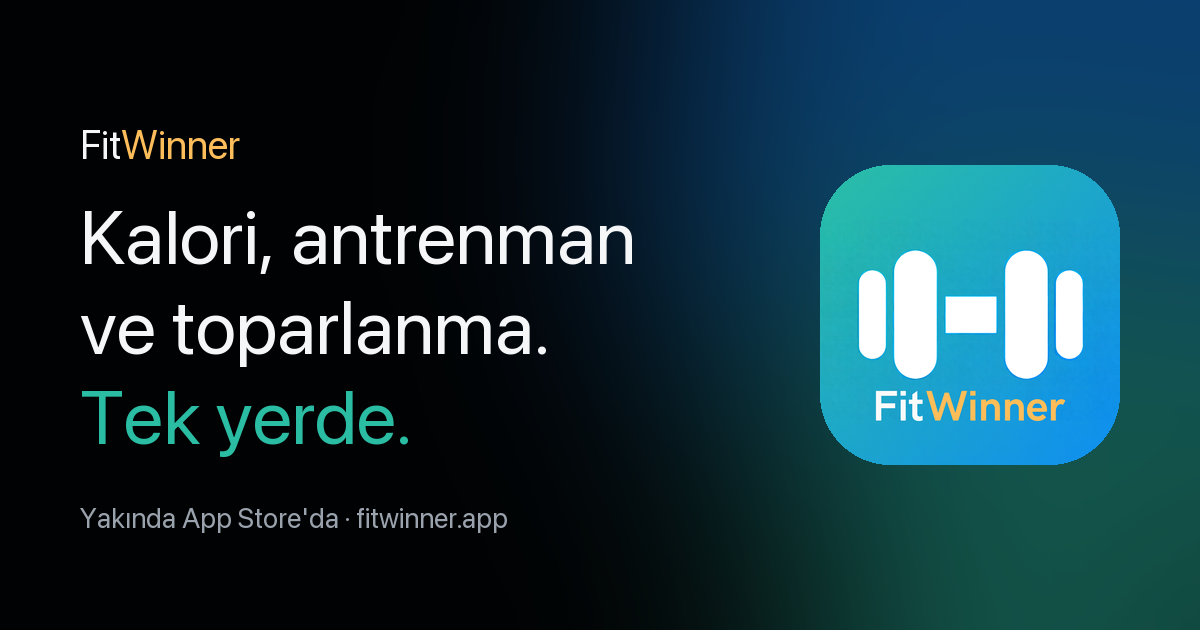
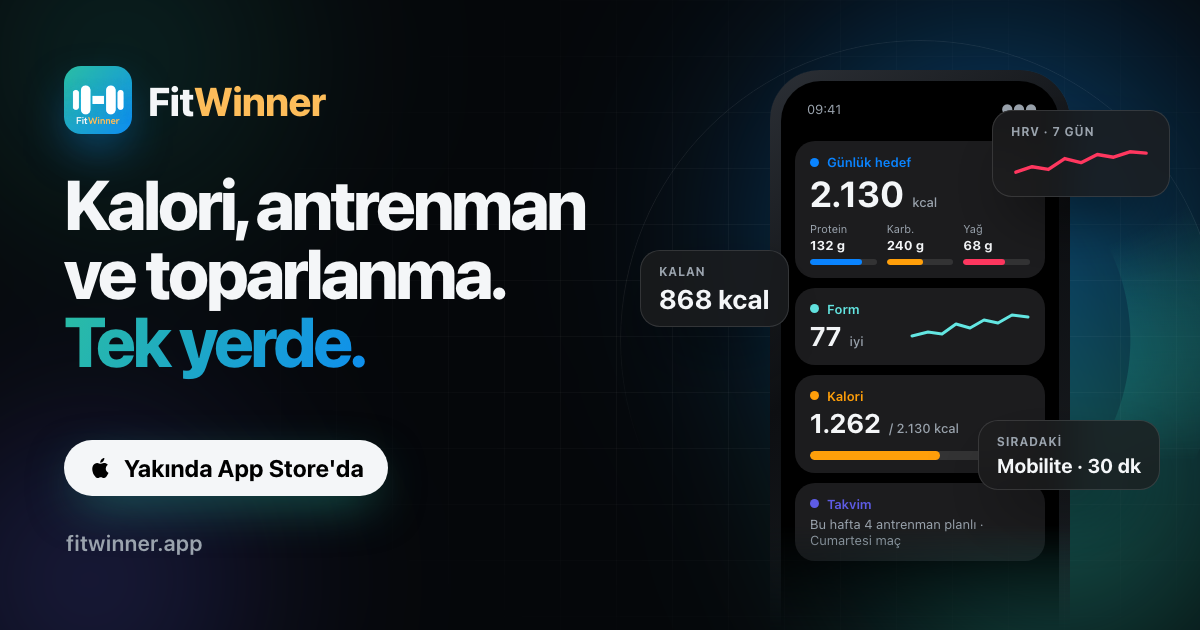
Paylaşım görseli yenilendi (hikâye tasarımının yatay hali) + OG/Twitter etiketleri tamamlandı

diff --git a/index.html b/index.html
@@ -11,11 +11,21 @@
 <link rel="icon" type="image/png" href="assets/img/favicon-64.png?v=y1">
 <link rel="apple-touch-icon" href="assets/img/apple-touch-icon.png?v=y1">
 <meta property="og:type" content="website">
+<meta property="og:site_name" content="FitWinner">
+<meta property="og:locale" content="tr_TR">
+<meta property="og:locale:alternate" content="en_US">
 <meta property="og:url" content="https://fitwinner.app/">
 <meta property="og:title" content="FitWinner — Kalori, antrenman ve toparlanma">
-<meta property="og:description" content="Kalori hedefin, makroların ve form skorun cihazında hesaplanır. Yakında App Store'da.">
-<meta property="og:image" content="https://fitwinner.app/assets/img/og.png?v=y1">
+<meta property="og:description" content="Kalori hedefin, makroların ve form skorun telefonunda, senin verilerinle hesaplanır. iPhone ve Apple Watch için. Yakında App Store'da.">
+<meta property="og:image" content="https://fitwinner.app/assets/img/og.png?v=y2">
+<meta property="og:image:type" content="image/png">
+<meta property="og:image:width" content="1200">
+<meta property="og:image:height" content="630">
+<meta property="og:image:alt" content="FitWinner: Kalori, antrenman ve toparlanma. Tek yerde. Telefon ekranında günlük kalori hedefi, form skoru ve kalori kartları.">
 <meta name="twitter:card" content="summary_large_image">
+<meta name="twitter:title" content="FitWinner — Kalori, antrenman ve toparlanma">
+<meta name="twitter:description" content="Kalori hedefin, makroların ve form skorun telefonunda, senin verilerinle hesaplanır. Yakında App Store'da.">
+<meta name="twitter:image" content="https://fitwinner.app/assets/img/og.png?v=y2">
 <link rel="stylesheet" href="assets/css/site.css?v=20261008r">
 <script>document.documentElement.classList.add('js')</script>
 <script src="assets/vendor/gsap.min.js" defer></script>
